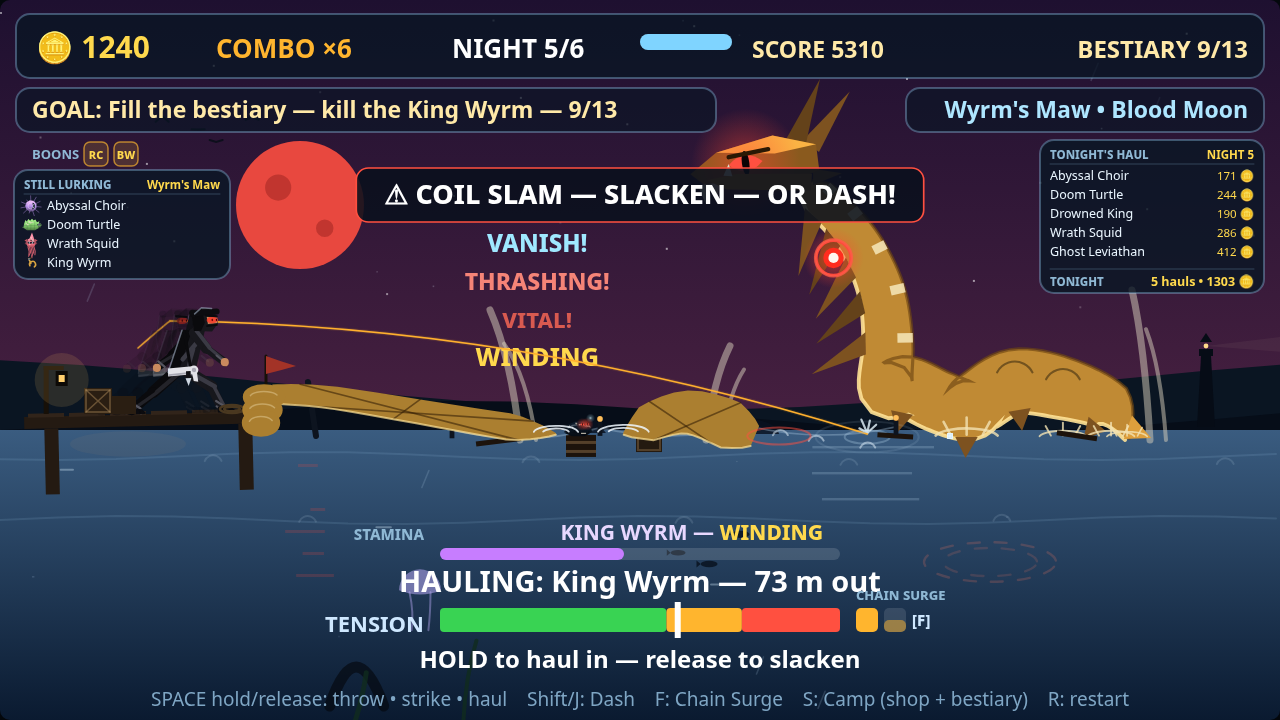
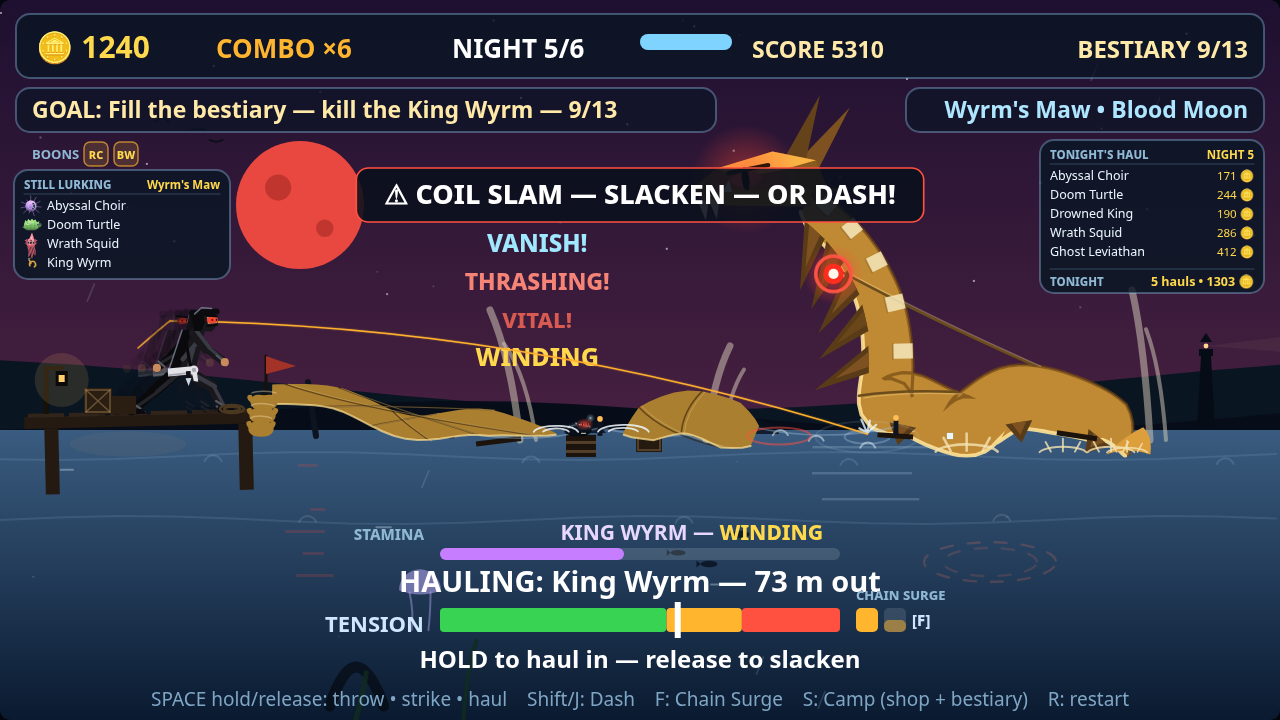
WYRMWAKE: serpent finish + wording pass

diff --git a/game/src/theatre.js b/game/src/theatre.js
@@ -14,7 +14,7 @@ function monsterGeom(run) {
   const f = run.fight;
   const p = lurePos(run);
   const near = Math.max(0, 1 - f.dist / 95);
-  if (MONSTERS[f.mi].shape === 'wyrm') return { x: p.x, y: WATER_Y + 6, s: 150 + near * 45, wyrm: true };
+  if (MONSTERS[f.mi].shape === 'wyrm') return { x: p.x, y: WATER_Y + 22, s: 150 + near * 45, wyrm: true };
   return { x: p.x, y: WATER_Y - 4 - near * 12, s: 20 + near * 30 + MONSTERS[f.mi].bulk, wyrm: false };
 }
 function weakPointPos(run) {
@@ -118,9 +118,24 @@ function loopRibbon(ctx, pts, w0, w1, tipStart = 1, tipEnd = 1) {
   ctx.beginPath();
   [...L, ...R.reverse()].forEach((p, i) => i ? ctx.lineTo(p[0], p[1]) : ctx.moveTo(p[0], p[1]));
   ctx.closePath(); ctx.fill();
-  ctx.strokeStyle = 'rgba(46,26,4,0.55)'; ctx.lineWidth = 1.6; ctx.lineCap = 'round';
-  for (let i = 3; i < S.length - 3; i += 7) { // scale bands across the back
-    ctx.beginPath(); ctx.moveTo(L[i][0], L[i][1]); ctx.lineTo(R[i][0], R[i][1]); ctx.stroke();
+  // scale bands across the back — bowed along the curve and spaced by
+  // arc length, each a dark seam with a lit lip, never a straight slash
+  ctx.lineCap = 'round';
+  let acc = 0;
+  for (let i = 2; i < S.length - 2; i++) {
+    acc += Math.hypot(S[i][0] - S[i - 1][0], S[i][1] - S[i - 1][1]);
+    if (acc < 48) continue;
+    acc = 0;
+    const a = S[i - 1], b = S[i + 1];
+    let dx = b[0] - a[0], dy = b[1] - a[1];
+    const m = Math.hypot(dx, dy) || 1; dx /= m; dy /= m;
+    const w = Math.hypot(L[i][0] - R[i][0], L[i][1] - R[i][1]) / 2;
+    const mx = (L[i][0] + R[i][0]) / 2 + dx * w * 0.38, my = (L[i][1] + R[i][1]) / 2 + dy * w * 0.38;
+    ctx.strokeStyle = 'rgba(46,26,4,0.55)'; ctx.lineWidth = 1.6;
+    ctx.beginPath(); ctx.moveTo(L[i][0], L[i][1]); ctx.quadraticCurveTo(mx, my, R[i][0], R[i][1]); ctx.stroke();
+    ctx.strokeStyle = 'rgba(255,226,150,0.30)'; ctx.lineWidth = 1;
+    ctx.beginPath(); ctx.moveTo(L[i][0] - dx * 3, L[i][1] - dy * 3);
+    ctx.quadraticCurveTo(mx - dx * 3, my - dy * 3, R[i][0] - dx * 3, R[i][1] - dy * 3); ctx.stroke();
   }
   ctx.strokeStyle = 'rgba(255,226,150,0.7)'; ctx.lineWidth = 2;
   ctx.beginPath(); R.forEach((p, i) => i ? ctx.lineTo(p[0], p[1]) : ctx.moveTo(p[0], p[1])); ctx.stroke();
@@ -147,22 +162,30 @@ function drawWyrmTheatre(ctx, run, t) {
     [g.x - g.s * 0.70, W + 6], [g.x - g.s * 1.12, W - g.s * 0.13 + bob], [g.x - g.s * 1.52, W + 4],
   ], g.s * 0.17, g.s * 0.10, 0.4, 0.05); // narrows into his flank; dives to a point at the collar
   loopRibbon(ctx, [
-    [g.x - g.s * 1.94, W + 4], [g.x - g.s * 2.42, W - g.s * 0.07 + bob], [336, 398], [272, 394],
+    [g.x - g.s * 1.94, W + 4], [g.x - g.s * 2.42, W - g.s * 0.07 + bob],
+    [(g.x - g.s * 2.42 + 336) / 2, W - 6 + bob], // a shallow sag in the long
+    [336, 398], [272, 394], // run to the post — a swimming back, not a slide
   ], g.s * 0.09, g.s * 0.06, 0.05, 1); // rises from a point; the post
   foamCollar(ctx, g.x - g.s * 1.52, W + 3, g.s * 0.16);
   foamCollar(ctx, g.x - g.s * 1.94, W + 3, g.s * 0.14);
   ctx.lineCap = 'round';
-  for (let i = 0; i < 3; i++) { // the coil: thick bands stepping down the
-    const cy = 397 + i * 13, rx = 14 - i, ry = 5.5 + i * 0.5; // post, lit on top
-    ctx.strokeStyle = GOLD.water;
-    ctx.lineWidth = Math.max(6, g.s * 0.09);
-    ctx.beginPath();
-    ctx.ellipse(264 - i * 1.5, cy, rx, ry, 0, 0, 6.29);
-    ctx.stroke();
-    ctx.strokeStyle = 'rgba(243,226,179,0.4)';
+  for (let i = 0; i < 3; i++) { // the coil: three wraps stepping down the
+    const cy = 397 + i * 13, rx = 14 - i, ry = 5.5 + i * 0.5; // post — each
+    const wMax = Math.max(6, g.s * 0.09); // a WRAP, not a ring: three arc
+    // passes around the post's front, fat at the front, thinning to
+    // nothing where they tuck behind the post's sides. (Full ellipses
+    // stacked like sausage slices — the blunt look the owner flagged.)
+    for (const [a0, a1, wf] of [[0.03, 0.35, 0.38], [0.35, 0.65, 1], [0.65, 0.97, 0.38]]) {
+      ctx.strokeStyle = GOLD.water;
+      ctx.lineWidth = Math.max(1.8, wMax * wf);
+      ctx.beginPath();
+      ctx.ellipse(264 - i * 1.5, cy, rx, ry, 0, Math.PI * a0, Math.PI * a1);
+      ctx.stroke();
+    }
+    ctx.strokeStyle = 'rgba(243,226,179,0.4)'; // the wrap's lit top rim
     ctx.lineWidth = 1.5;
     ctx.beginPath();
-    ctx.ellipse(264 - i * 1.5, cy, rx, ry, 0, 3.4, 5.9);
+    ctx.ellipse(264 - i * 1.5, cy - ry * 0.55, rx * 0.92, ry * 0.5, 0, Math.PI * 1.12, Math.PI * 1.88);
     ctx.stroke();
   }  // the slam, telegraphed: the head itself rears (render.js) — here the
   // water under it warns, a red ring widening as the strike nears

diff --git a/game/src/data.js b/game/src/data.js
@@ -17,7 +17,7 @@ export const HARPOONS = [
 
 export const LURES = [
   { name: 'Bait Bucket', price: 0, bite: 1.0, doom: false },
-  { name: 'Blood Lure', price: 60, bite: 0.82, doom: false },
+  { name: 'Blood Vial', price: 60, bite: 0.82, doom: false },
   { name: 'Lantern Squid', price: 80, bite: 0.7, doom: false },
   { name: 'Doom Bell', price: 100, bite: 0.85, doom: true },
 ];
@@ -31,10 +31,10 @@ export const WEATHERS = [
 ];
 
 // sea: index into SEAS. power: how hard it pulls in a fight. weight: how often
-// it bites. price: what a haul pays before the combo multiplier. bulk: the
+// it answers. price: what a haul pays before the combo multiplier. bulk: the
 // species' fixed build — how big it looms in the water and how wide its
-// reflection shimmers (there is no per-catch size roll; a species is its size).
-// fake: how much it loves a fake bite. doom: only answers the Doom Bell.
+// reflection shimmers (there is no per-haul size roll; a species is its size).
+// fake: how much it loves to feint. doom: only answers the Doom Bell.
 export const MONSTERS = [
   { name: 'Gloam Eel', sea: 0, power: 21, weight: 30, price: 18, bulk: 1.0, fake: 0.2, doom: false, shape: 'eel', color: '#57e6a9' },
   { name: 'Hullback Crab', sea: 0, power: 25, weight: 26, price: 22, bulk: 1.4, fake: 0.1, doom: false, shape: 'crab', color: '#e8834f' },
@@ -68,13 +68,13 @@ export const DIFFICULTIES = [
 export const BOONS = [
   { id: 'cable', code: 'RC', name: 'Reinforced Chain', desc: 'The safe tension band widens — the chain holds deeper into the red.' },
   { id: 'winch', code: 'BW', name: 'Brass Coil', desc: '+25% haul speed on every throw you make.' },
-  { id: 'chum', code: 'BC', name: 'Blood Bait', desc: 'Monsters find the lure 20% faster, every night.' },
+  { id: 'chum', code: 'BC', name: 'Blood Bait', desc: 'Monsters find the bait 20% faster, every night.' },
   { id: 'aperture', code: 'WA', name: 'Wide Aperture', desc: 'The strike window stays open 50% longer.' },
   { id: 'charm', code: 'SC', name: "Sailor's Charm", desc: 'Once per night, a snapped chain does not break your combo.' },
   { id: 'grip', code: 'IG', name: 'Iron Grip', desc: 'Monster stamina regens at half speed while you slacken.' },
-  { id: 'glow', code: 'GB', name: 'Glow Bait', desc: 'Rare monsters answer the lure far more often.' },
-  { id: 'sails', code: 'SS', name: 'Storm Sails', desc: 'Weather penalties on the bite are halved.' },
-  { id: 'sinkers', code: 'HS', name: 'Heavy Chain', desc: 'The big ones take the lure: every haul pays +10% coins and score.' },
+  { id: 'glow', code: 'GB', name: 'Glow Bait', desc: 'Rare monsters answer the bait far more often.' },
+  { id: 'sails', code: 'SS', name: 'Storm Sails', desc: 'Weather penalties on the hunt are halved.' },
+  { id: 'sinkers', code: 'HS', name: 'Heavy Chain', desc: 'The big ones take the bait: every haul pays +10% coins and score.' },
 ];
 export const boonById = (id) => BOONS.find((b) => b.id === id);
 

diff --git a/game/src/camp.js b/game/src/camp.js
@@ -9,7 +9,7 @@ import { drawBoonGlyph } from './glyphs.js';
 
 // one-line effects for the boon rows — full text lives on the draft cards
 const SHORT_FX = {
-  cable: 'wider safe band', winch: '+25% haul speed', chum: 'bites 20% faster',
+  cable: 'wider safe band', winch: '+25% haul speed', chum: 'answers 20% faster',
   aperture: '+50% strike window', charm: 'a snap keeps the combo', grip: 'stamina regens at half',
   glow: 'rares answer more often', sails: 'weather penalties halved', sinkers: 'hauls pay +10%',
 };
@@ -102,7 +102,7 @@ export function drawCamp(ctx, run) {
   });
   const { rows, hunt } = campLayout(run);
   text(ctx, 'HARPOONS — haul speed & grip', 852, 130, 19, '#aee6ff');
-  text(ctx, 'LURES — what bites, how fast', 852, 282, 19, '#aee6ff');
+  text(ctx, 'BAITS — what answers, how fast', 852, 282, 19, '#aee6ff');
   text(ctx, 'SEAS — darker water, worse monsters', 852, 477, 19, '#aee6ff');
   for (const r of rows) {
     ctx.fillStyle = r.active ? 'rgba(46,139,87,0.55)' : 'rgba(255,255,255,0.06)';

diff --git a/game/src/bot.js b/game/src/bot.js
@@ -1,6 +1,6 @@
 // bot.js — one job: the policy that plays the loop. The title-screen attract
 // demo and the seeded proof in tools/bot-test.mjs both drive the game with
-// this. It plays like a decent hunter: full-ish casts, strikes on the bite,
+// this. It plays like a decent hunter: full-ish throws, strikes on the answer,
 // pulse-hauls a fresh monster to tire it out, then hauls hard once it fades,
 // and dashes through telegraphs to open counter windows.
 import { MONSTERS, SEAS, poolFor } from './data.js';
@@ -73,7 +73,7 @@ export function botDraft(run) {
   return pickBoon(run, run.draft.choices[0]);
 }
 
-// Between casts: spend coins in a fixed priority and sail to the deepest open
+// Between throws: spend coins in a fixed priority and sail to the deepest open
 // sea that still hides an uncaught monster. The King Wyrm only answers
 // the Doom Bell, so the bell is bought and rung whenever the Maw is the hunt.
 export function botShop(run) {

diff --git a/game/src/fight.js b/game/src/fight.js
@@ -76,7 +76,7 @@ function startWait(run) {
   const lure = LURES[run.lure];
   const weather = WEATHERS[run.weatherIdx];
   // Storm Sails halves a weather penalty (a bite factor above 1); Blood
-  // Chum shaves a fifth off every wait.
+  // Blood Bait shaves a fifth off every wait.
   let wBite = weather.bite;
   if (hasBoon(run, 'sails') && wBite > 1) wBite = 1 + (wBite - 1) / 2;
   const biteIn = run.rng.range(1.6, 4.2) * lure.bite * wBite * (hasBoon(run, 'chum') ? 0.8 : 1);
@@ -101,7 +101,7 @@ function haul(run) {
   const f = run.fight;
   const m = MONSTERS[f.mi];
   const comboMult = 1 + 0.1 * run.combo;
-  // a haul pays the species' price; Heavy Sinkers sweeten every haul
+  // a haul pays the species' price; Heavy Chain sweetens every haul
   const sinkersMult = hasBoon(run, 'sinkers') ? 1.1 : 1;
   const gained = Math.round(m.price * comboMult * sinkersMult);
   // SCORE is its own currency: haul value x combo x difficulty.

diff --git a/game/src/ui.js b/game/src/ui.js
@@ -123,9 +123,9 @@ export function drawHUD(ctx, run, view) {
       text(ctx, '!', p.x, WATER_Y - 66, 64, '#ffd94d', 'center', 800);
       text(ctx, 'STRIKE! [SPACE]', 640, 640, 44, '#ffd94d', 'center', 800);
     } else if (run.wait.telegraph) {
-      text(ctx, 'Something is circling the lure…', 640, 640, 26, '#aee6ff', 'center');
+      text(ctx, 'Something is circling below…', 640, 640, 26, '#aee6ff', 'center');
     } else {
-      text(ctx, 'The lure is out. Watch the water…', 640, 640, 24, '#8fb8d4', 'center');
+      text(ctx, 'The bait is out. Watch the water…', 640, 640, 24, '#8fb8d4', 'center');
     }
   } else if (run.phase === 'fight' && run.fight) {
     const f = run.fight;

diff --git a/game/src/briefing.js b/game/src/briefing.js
@@ -122,7 +122,7 @@ export function drawBriefing(ctx, sel, best, last, demo, view) {
   });
 
   text(ctx, 'DIFFICULTY', 40, 464, 18, '#8fb8d4', 'left', 800);
-  text(ctx, '🔔 The King Wyrm answers only to the Doom Bell lure — buy it at camp, ring it in Wyrm\'s Maw.', 190, 464, 14, '#ffd94d', 'left', 400);
+  text(ctx, '🔔 The King Wyrm answers only to the Doom Bell — buy it at camp, ring it in Wyrm\'s Maw.', 190, 464, 14, '#ffd94d', 'left', 400);
   const { diffs, sail } = briefingLayout();
   for (const d of diffs) {
     const def = DIFFICULTIES[d.idx];

diff --git a/game/src/render.js b/game/src/render.js
@@ -212,7 +212,7 @@ function drawMonster(ctx, run, t) {
       const maw = Math.min(1, Math.max(0, (surge01 - 0.78) / 0.22) * 1.3);
       const rear = f.event && f.event.id === 'slam' && f.event.phase === 'tele'
         ? Math.min(1, Math.max(0, 1 - f.event.t / 1.0)) : 0;
-      drawWyrm(ctx, p.x, WATER_Y + 6, 150 + near * 45, t, '#ff5040', maw, rear);
+      drawWyrm(ctx, p.x, WATER_Y + 22, 150 + near * 45, t, '#ff5040', maw, rear);
     } else {
       const s = 20 + near * 30 + m.bulk;
       const bob = Math.sin(t * 2.2) * 3;
